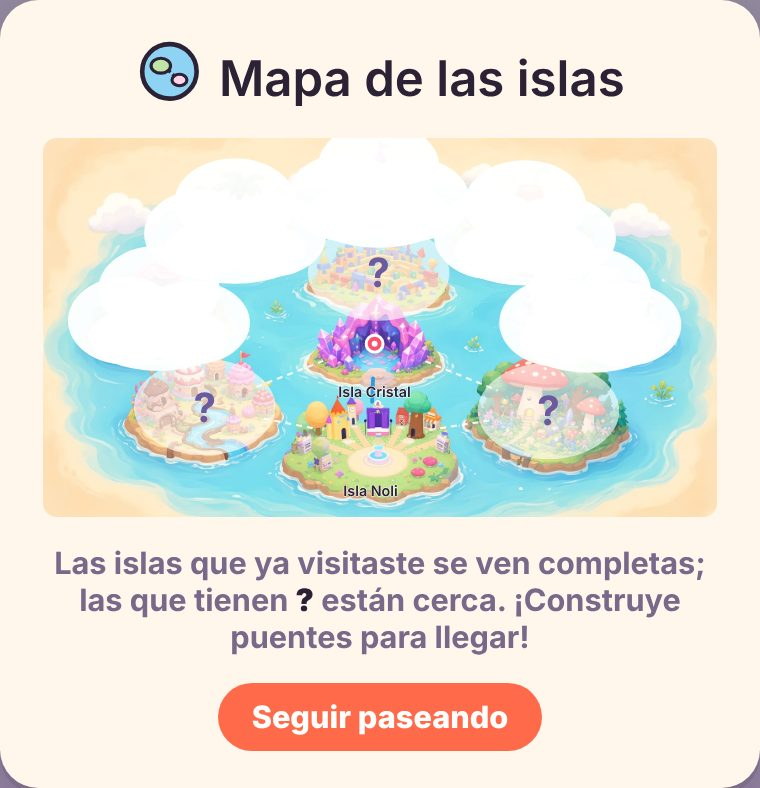
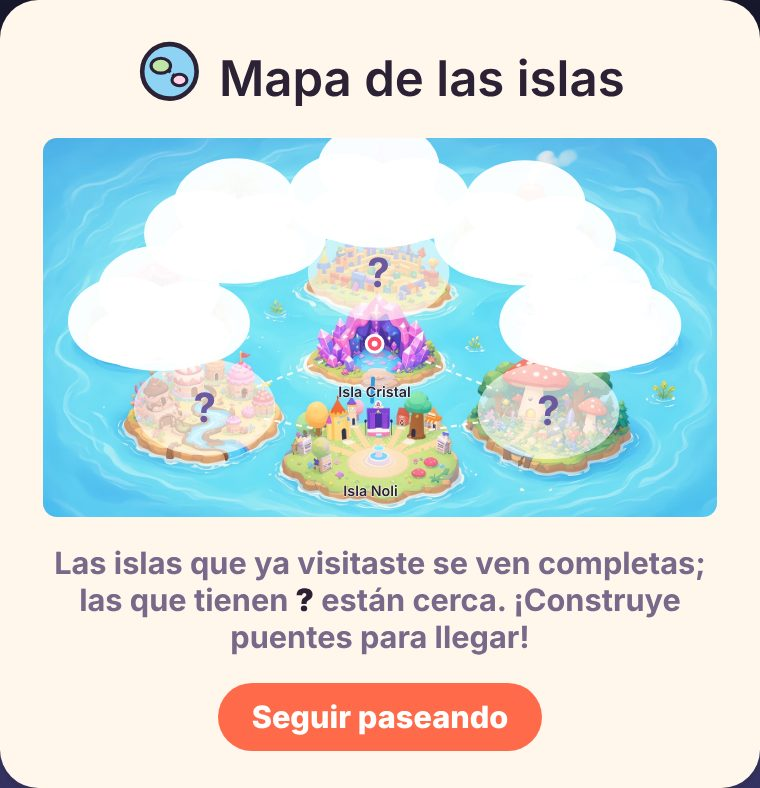
Islas: copia web del mapa nuevo de Petra (#173)
- mundo/arte/mapa-1600.jpg rehecho desde el mapa.png corregido (sin marco de pergamino).
- Capturas del mapa en docs/img actualizadas.
- VERSION 2026-10-23.5.

Las islas quedaron en el mismo lugar del dibujo, así que islas.json (mapa.u, mapa.v) no cambia.
El búho 3D ya tenía el birrete con tabla cuadrada; no cambia.

Claude-Session: https://claude.ai/code/session_01DDHqFCSvjvb92XVQ1e5wmF

diff --git a/src/version.js b/src/version.js
@@ -1,4 +1,4 @@
 // Versión publicada de Noli. CÁMBIALA en cada cambio que se publique (catálogo o cualquier juego):
 // así los dispositivos con Noli abierto ven "Hay juegos nuevos · Actualizar" (ver src/app/updates.js).
 // Formato: AAAA-MM-DD.N (N = número de publicación de ese día)
-export const VERSION = "2026-10-23.4";
+export const VERSION = "2026-10-23.5";
